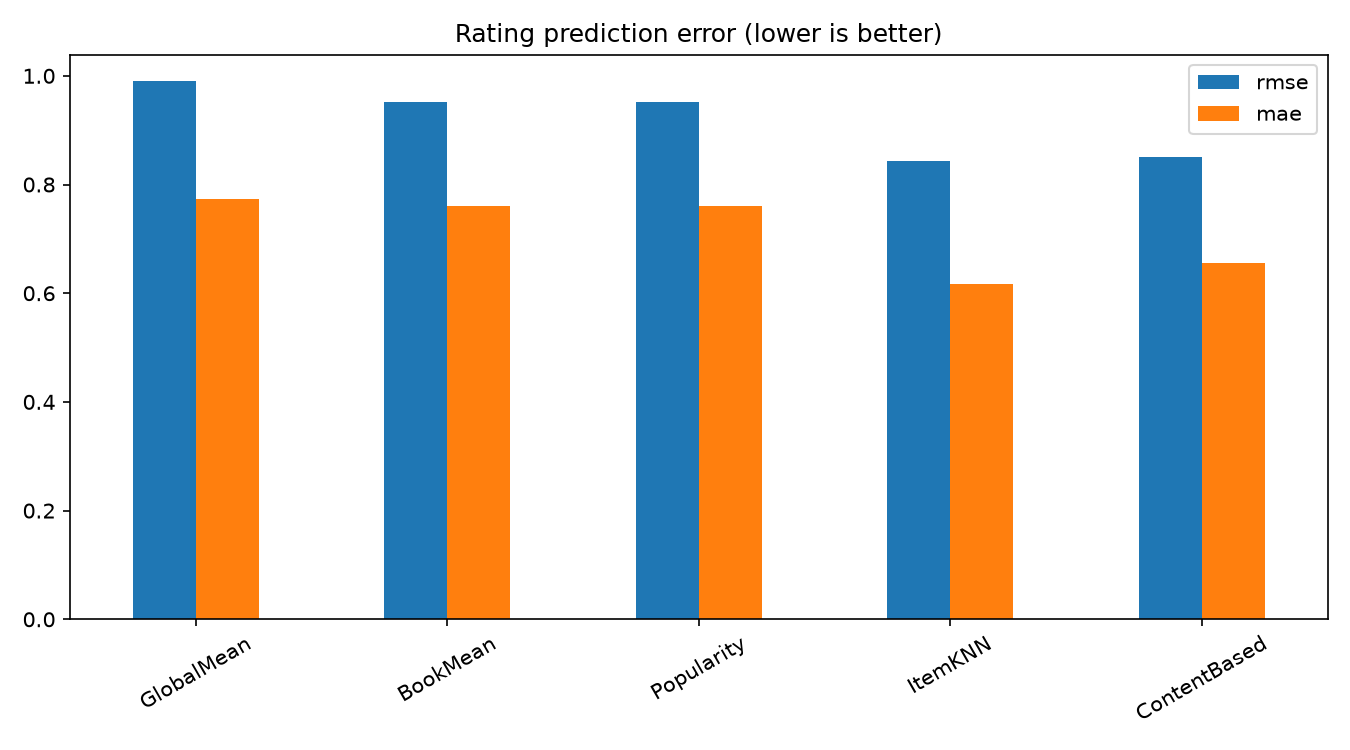
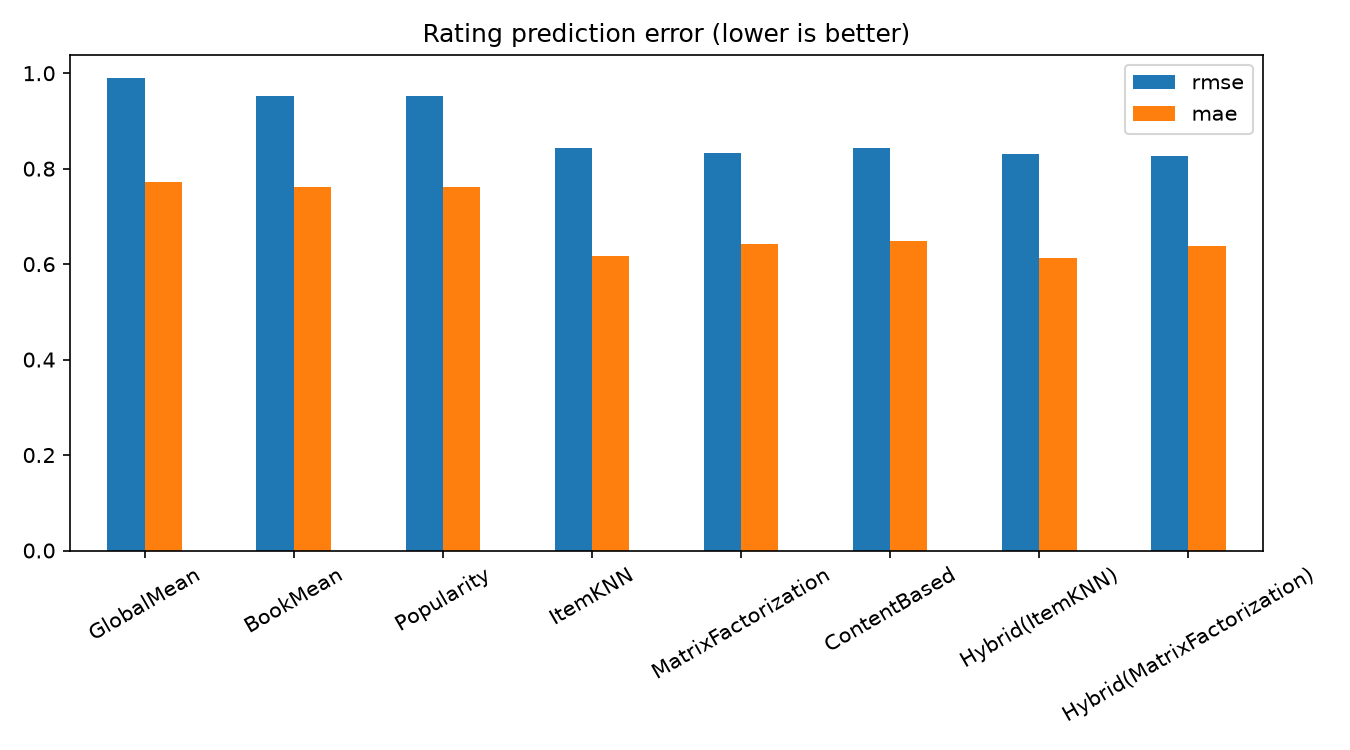
""콜드스타트 실험결과및 그래프 반영

diff --git a/src/models/hybrid.py b/src/models/hybrid.py
@@ -10,7 +10,7 @@ class Hybrid(Recommender):
     - recommend: 두 모델의 추천 순위를 역수 순위 가중합(Reciprocal Rank Fusion)으로 결합
     """
 
-    def __init__(self, cf_model: Recommender, content_model: Recommender, alpha: float = 0.7, recommend_pool: int = 200):
+    def __init__(self, cf_model: Recommender, content_model: Recommender, alpha: float = 0.9, recommend_pool: int = 200):
         """
         Args:
             cf_model: 미리 튜닝된 협업 필터링 모델 객체 (예: ItemKNN)
